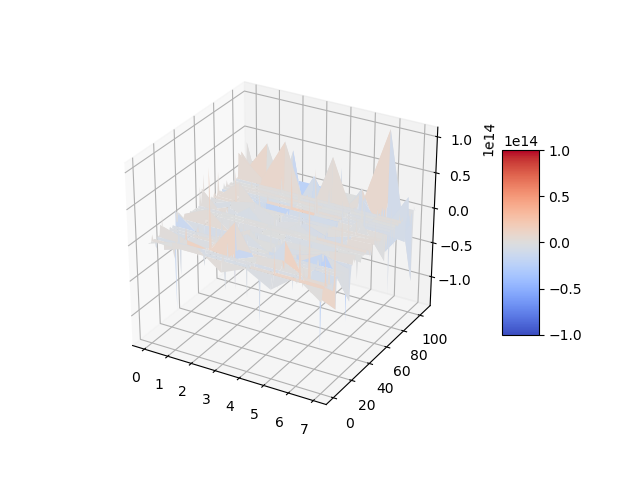
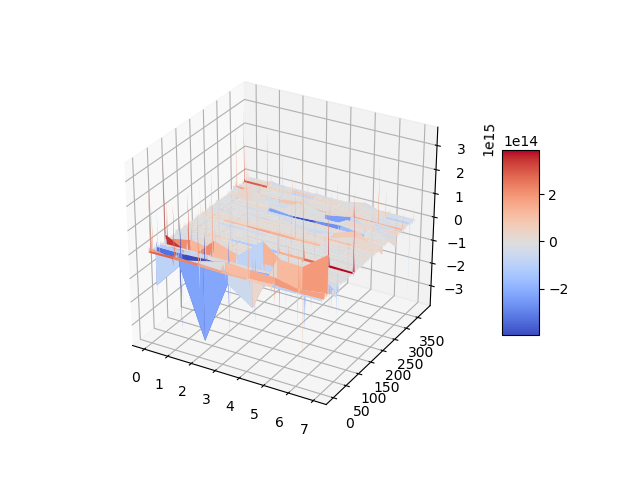
iem work

diff --git a/code/inverted_encoding.py b/code/inverted_encoding.py
@@ -5,7 +5,7 @@ import load_data as ld
 import machine_learning as ml
 from file_lists import meg_subj_lst, ch_picks
 from serial_dependence import get_diffs
-
+from scipy.io import loadmat
 
 
 
@@ -74,7 +74,7 @@ class InvertedEncoder(object):
             cur_trn = trn_cv_coeffs[trn_idx, :, :]
             cur_tst = trn_cv_coeffs[tst_idx, :, :]
 
-            for j in range(16):
+            for j in range(trn_cv_coeffs.shape[2]):
                 cur_trn_pt = cur_trn[:, :, j]
                 cur_tst_pt = cur_tst[:, :, j]
 
@@ -84,25 +84,27 @@ class InvertedEncoder(object):
                 wT_b = w_coeffs @ cur_tst_pt.T
                 chan_resp_cv_coeffs[tst_idx, :, j] = wT_w_inv @ wT_b
                 
-
-        scores = np.zeros(16)
-        for i in range(16):
+        
+        scores = np.zeros(chan_resp_cv_coeffs.shape[2])
+        for i in range(chan_resp_cv_coeffs.shape[2]):
             preds = chan_resp_cv_coeffs[:, :, i].argmax(axis=1) * (180 // self.n_ori_chans)
             n_correct = trng_cv[preds.astype(int) == trng_cv].shape[0]
             n_total = trng_cv.shape[0]
             scores[i] = n_correct / n_total
 
         chan_resp_cv_coeffs_shift = np.zeros(chan_resp_cv_coeffs.shape)
+        
         tar_idx = int(np.round(self.chan_center.shape[0] / 2))
-        print(tar_idx)
         for i in range(self.n_ori_chans):
             idx = trng_cv == trn_ou[i]
             chan_resp_cv_coeffs_shift[idx, :, :] = np.roll(chan_resp_cv_coeffs[idx, :, :], tar_idx - i, axis=1)
 
+        print(chan_resp_cv_coeffs_shift.shape)
         return scores, chan_resp_cv_coeffs_shift, return_repnum
 
 def run_iem_subject(subj, n_classes=8, permutation_test=False):
     X, _, y, _ = ld.load_data(subj, n_train=500, n_test=0, n_classes=n_classes, data="epochs", shuffle=False, ch_picks=ch_picks)
+    #X, y = load_eeg()
     if (permutation_test):
         shuffle_idx = np.random.choice(500, 500, replace=False)
         y = y[shuffle_idx]
@@ -111,7 +113,7 @@ def run_iem_subject(subj, n_classes=8, permutation_test=False):
     name = "IEM_cv"
     if permutation_test:
         name += "_permutation"
-    ml.plot_results(np.arange(16), scores, name, subj, ymin=0.075, ymax=0.175)
+    ml.plot_results(np.arange(scores[:].shape[0]), scores, name, subj, ymin=0.075, ymax=0.175)
     return scores
 
 def run_iem_3D(subj, n_classes=8, permutation_test=False, flat=False):
@@ -143,26 +145,32 @@ def run_iem_3D(subj, n_classes=8, permutation_test=False, flat=False):
     return mean_chan_resps
 
 def iem_plot_timesteps(subj, n_classes=8, t=7, permutation_test=False):
-    X, _, y, _ = ld.load_data(subj, n_train=500, n_test=0, n_classes=n_classes, data="epochs", shuffle=False, ch_picks=ch_picks)
+    #X, _, y, _ = ld.load_data(subj, n_train=500, n_test=0, n_classes=n_classes, data="epochs", shuffle=False, ch_picks=ch_picks)
+    X, y = load_eeg()
     if (permutation_test):
         shuffle_idx = np.random.choice(500, 500, replace=False)
         y = y[shuffle_idx]
     model = InvertedEncoder(n_classes)
     _, chan_resps, _ = model.cross_validate(X, y)
-    chan_resps = chan_resps[np.abs(chan_resps).max(axis=(1,2)) < 2e14]
+    #chan_resps = chan_resps[np.abs(chan_resps).max(axis=(1,2)) < 5e15]
     mean_chan_resps = chan_resps[:, :, t].mean(axis=0)
     plt.plot(mean_chan_resps)
     plt.savefig("../Figures/ML/IEM/bell_curve/bell_%s_%d.png" % (subj, t))
     plt.clf()
 
+    print(chan_resps.shape)
     chan_resps_time_t = chan_resps[:, :, t]
-    Xs = np.array([np.arange(n_classes) for _ in range(chan_resps[:].shape[0])])
-    Ys = np.array([np.ones(n_classes) * i for i in np.arange(chan_resps[:].shape[0])])
+    Xs = np.array([np.arange(n_classes) for _ in range(chan_resps_time_t[:].shape[0])])
+    Ys = np.array([np.ones(n_classes) * i for i in np.arange(chan_resps_time_t[:].shape[0])])
+    print(chan_resps_time_t.shape)
+    print(Xs.shape)
+    print(Ys.shape)
     fig = plt.figure()
     ax = fig.add_subplot(111, projection='3d')
-    surf = ax.plot_surface(Xs, Ys, chan_resps_time_t, cmap="coolwarm", vmin=-1e14, vmax=1e14)
+    surf = ax.plot_surface(Xs, Ys, chan_resps_time_t, cmap="coolwarm")
     fig.colorbar(surf, shrink=0.5, aspect=5)
     plt.savefig("../Figures/ML/IEM/bell_curve/bell_3d_%s_%d.png" % (subj, t))
+    plt.clf()
 
 
 def iem_serial_dependence(subj, n_classes=8, n_bins=15, t=7):
@@ -172,6 +180,7 @@ def iem_serial_dependence(subj, n_classes=8, n_bins=15, t=7):
     bin_width = 180 // n_bins
 
     X, _, y, _ = ld.load_data(subj, n_train=500, n_test=0, n_classes=n_classes, data="epochs", shuffle=False, ch_picks=ch_picks)
+    #X, y = load_eeg()
 
     model = InvertedEncoder(n_classes)
     _, chan_resps, repnum = model.cross_validate(X, y)
@@ -197,18 +206,28 @@ def iem_serial_dependence(subj, n_classes=8, n_bins=15, t=7):
 
     return
 
+def load_eeg():
+    eeg = loadmat("../Data/s08_EEG_ori_mini.mat")
+    X = eeg["trn"]
+    y = eeg["trng"].flatten()
+    print(X.shape)
+    print(y.shape)
+    print(y)
+    y = y // 20
+    return X, y 
 
 def main():
-    """score_lst = np.zeros(16)
+    score_lst = np.zeros(16)
     count = 0
     for subj in meg_subj_lst:
-        scores = run_iem_subject(subj)
+        scores = run_iem_subject(subj, n_classes=9)
         score_lst += scores
         count += 1
     
     score_lst /= count
-    ml.plot_results(np.arange(16), score_lst, "IEM_cv", "all")"""
-    iem_plot_timesteps("AK")
+    ml.plot_results(np.arange(16), score_lst, "IEM_cv", "all")
+    #iem_plot_timesteps("eeg", n_classes=9)
+    #run_iem_subject("AK", n_classes=9)
 
 
 

diff --git a/code/MEG_analysis.py b/code/MEG_analysis.py
@@ -70,8 +70,9 @@ def get_raw(data):
     print([raw_file for raw_file in data])
     raws = [mne.io.read_raw_fif(raw_file, verbose=False) for raw_file in data]
     raw = mne.io.concatenate_raws(raws)
-    raw.load_data().filter(l_freq=2, h_freq=40)
+    raw.load_data().filter(l_freq=2, h_freq=288)
     raw.pick_types(meg="grad", stim=True, exclude = ch_exclude)
+    raw.notch_filter(np.arange(60, 241, 60))
     return raw
 
 def process_data(data, participant):
